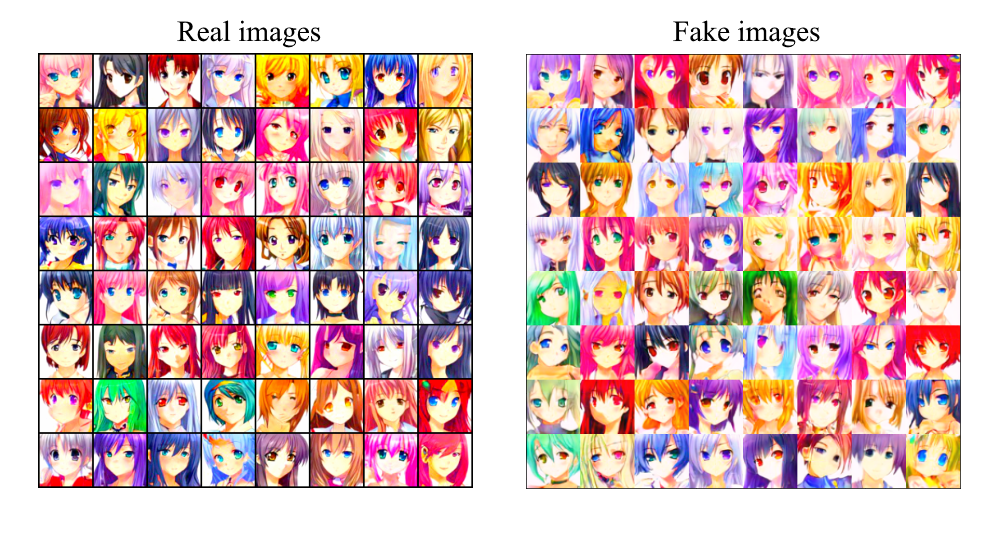
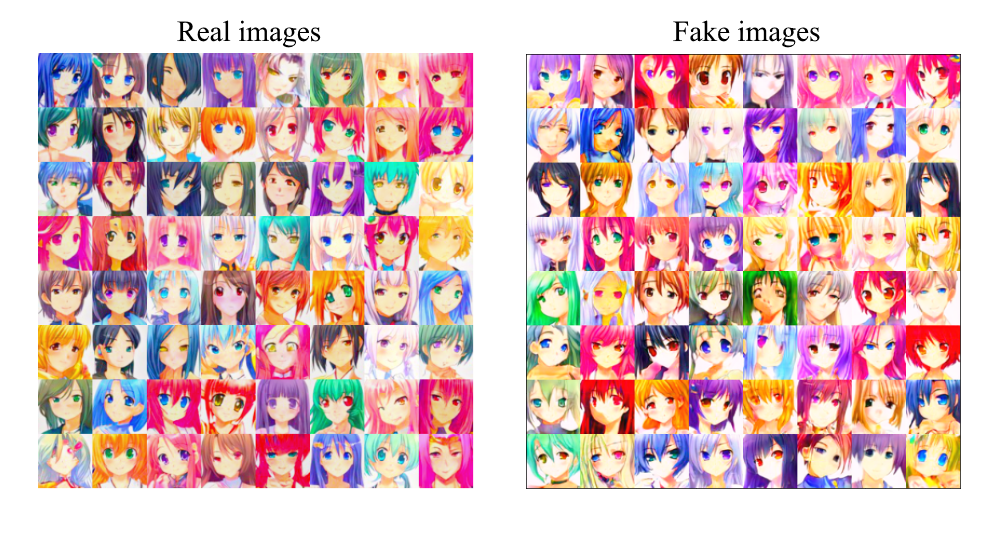
Fixed color correction

diff --git a/gan/r1gan/r1gan.py b/gan/r1gan/r1gan.py
@@ -35,9 +35,10 @@ class Anime_Dataset:
         print(len(self.labels), len(self.img_files))
     
     def color_transform(self, x):
-        x = torchvision.transforms.functional.adjust_saturation(x, 2.5)
+        x = torchvision.transforms.functional.adjust_saturation(x, 2.75)
         x = torchvision.transforms.functional.adjust_gamma(x, 0.7)
-        x = torchvision.transforms.functional.adjust_contrast(x, 1.2)
+        x = torchvision.transforms.functional.adjust_contrast(x, 0.8)
+        x = torchvision.transforms.functional.adjust_brightness(x, 0.75)
         return x
         
     def __len__(self):

diff --git a/gan/dgcan/dcgan.py b/gan/dgcan/dcgan.py
@@ -71,9 +71,10 @@ class Anime_Dataset:
         print(len(self.labels), len(self.img_files))
     
     def color_transform(self, x):
-        x = F.adjust_saturation(x, 2.5)
+        x = F.adjust_saturation(x, 1.75)
         x = F.adjust_gamma(x, 0.7)
-        x = F.adjust_contrast(x, 1.2)
+        x = F.adjust_contrast(x, 0.8)
+        x = F.adjust_brightness(x, 0.75)
         return x
         
     def __len__(self):
